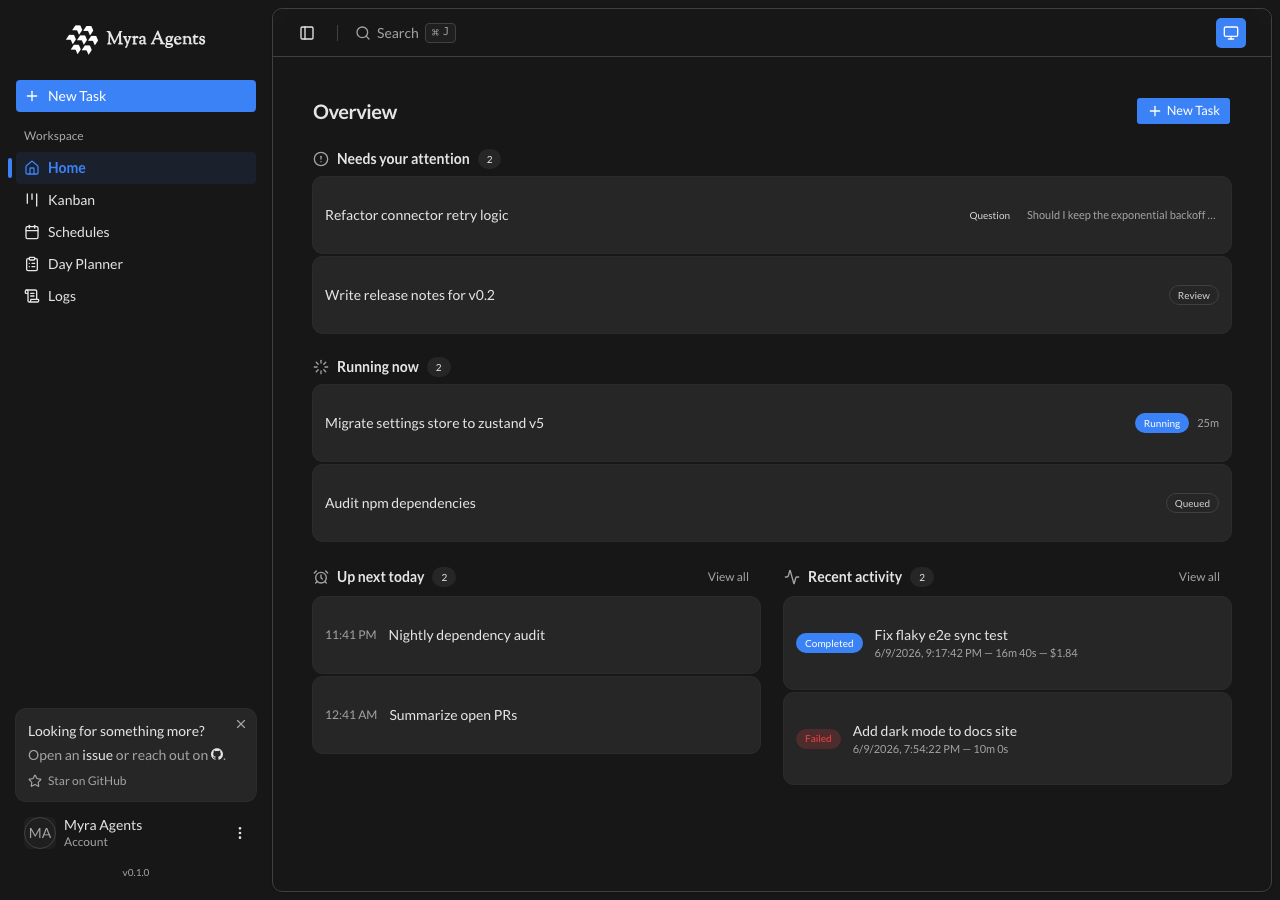
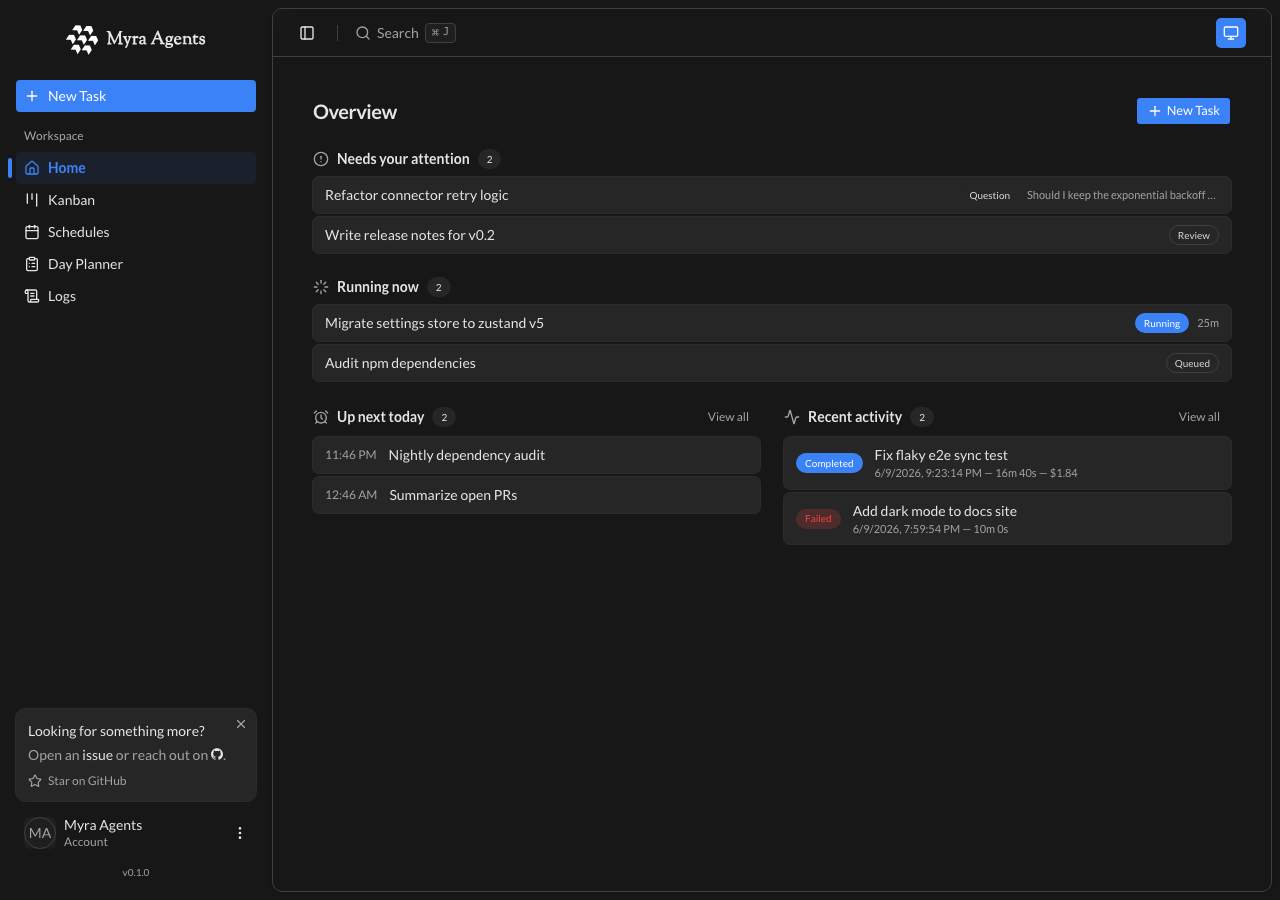
style(home): compact row height
Cards default to py-4 + p-3 content; flatten rows to px-3 py-2 with
py-0 cards so the overview reads like a dense list.

diff --git a/src/app/(main)/page.tsx b/src/app/(main)/page.tsx
@@ -156,10 +156,10 @@ export default function HomePage() {
                 upcoming.map((task) => (
                   <Card
                     key={task.id}
-                    className="cursor-pointer hover:bg-muted/50 transition-colors"
+                    className="cursor-pointer rounded-lg py-0 hover:bg-muted/50 transition-colors"
                     onClick={() => router.push("/schedules")}
                   >
-                    <CardContent className="flex items-center gap-3 p-3">
+                    <CardContent className="flex items-center gap-3 px-3 py-2">
                       <span className="font-mono text-xs text-muted-foreground tabular-nums">
                         {formatHm(task.nextRunAt)}
                       </span>
@@ -182,10 +182,10 @@ export default function HomePage() {
                 recentRuns.map(({ card, run }) => (
                   <Card
                     key={`${card.id}-${run.id}`}
-                    className="cursor-pointer hover:bg-muted/50 transition-colors"
+                    className="cursor-pointer rounded-lg py-0 hover:bg-muted/50 transition-colors"
                     onClick={() => router.push("/logs")}
                   >
-                    <CardContent className="flex items-center gap-3 p-3">
+                    <CardContent className="flex items-center gap-3 px-3 py-2">
                       <RunStatusBadge status={run.status} />
                       <div className="flex-1 min-w-0">
                         <p className="text-sm font-medium truncate">{card.title}</p>
@@ -249,8 +249,8 @@ function Section({
 
 function SectionEmpty({ label }: { label: string }) {
   return (
-    <Card>
-      <CardContent className="py-4">
+    <Card className="rounded-lg py-0">
+      <CardContent className="px-3 py-2">
         <p className="text-muted-foreground text-xs text-center">{label}</p>
       </CardContent>
     </Card>
@@ -259,8 +259,8 @@ function SectionEmpty({ label }: { label: string }) {
 
 function CardRow({ card, onClick, children }: { card: KanbanCard; onClick: () => void; children: React.ReactNode }) {
   return (
-    <Card className="cursor-pointer hover:bg-muted/50 transition-colors" onClick={onClick}>
-      <CardContent className="flex items-center gap-3 p-3">
+    <Card className="cursor-pointer rounded-lg py-0 hover:bg-muted/50 transition-colors" onClick={onClick}>
+      <CardContent className="flex items-center gap-3 px-3 py-2">
         <div className="flex-1 min-w-0">
           <p className="text-sm font-medium truncate">{card.title}</p>
         </div>
